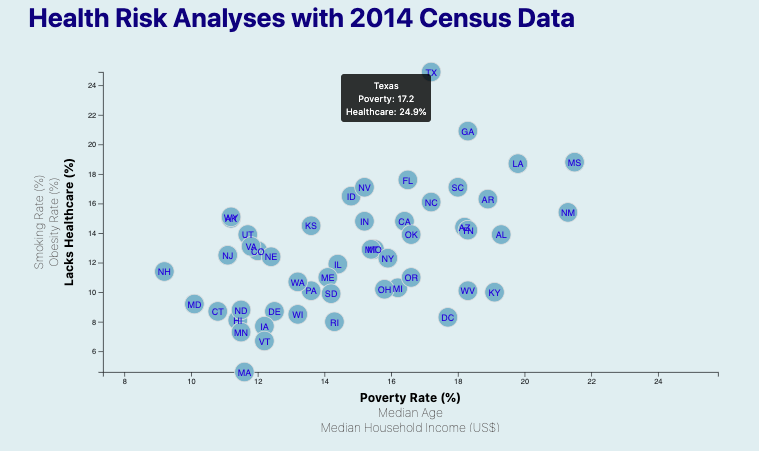
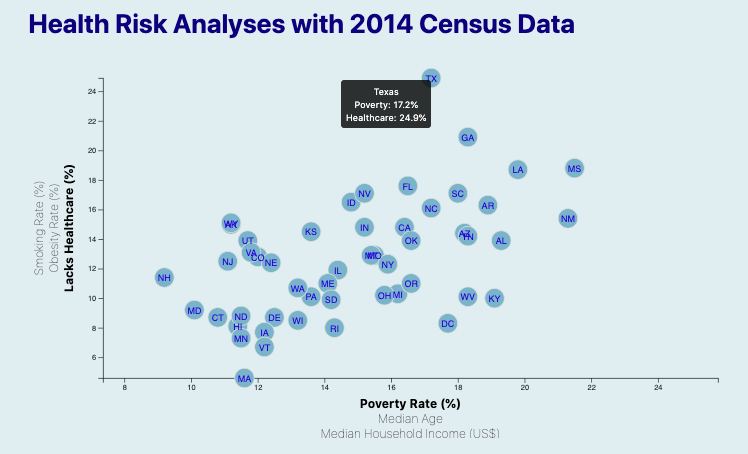
final commit

diff --git a/d3_data_journalism/assets/js/app.js b/d3_data_journalism/assets/js/app.js
@@ -137,7 +137,7 @@ function updateToolTip(circlesGroup, chosenXAxis, chosenYAxis) {
             return (`${d.state}<br>${xlabel}: ${d[chosenXAxis]}${xpercentsign}<br>${ylabel}: ${d[chosenYAxis]}${ypercentsign}`)
             }
             else {
-            return (`${d.state}<br>${xlabel}: ${d[chosenXAxis]}<br>${ylabel}: ${d[chosenYAxis]}${ypercentsign}`)
+            return (`${d.state}<br>${xlabel}: ${d[chosenXAxis]}${xpercentsign}<br>${ylabel}: ${d[chosenYAxis]}${ypercentsign}`)
             }
     });
 
